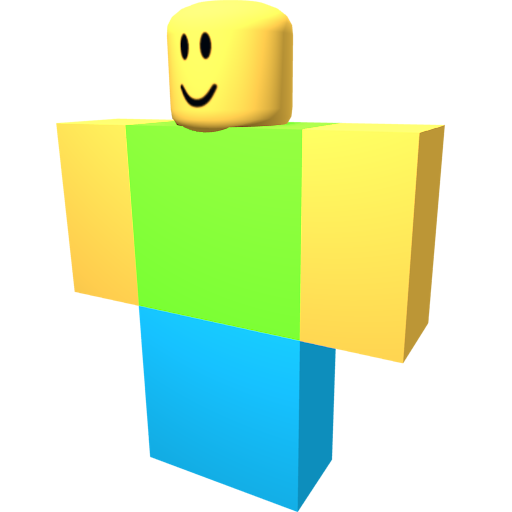
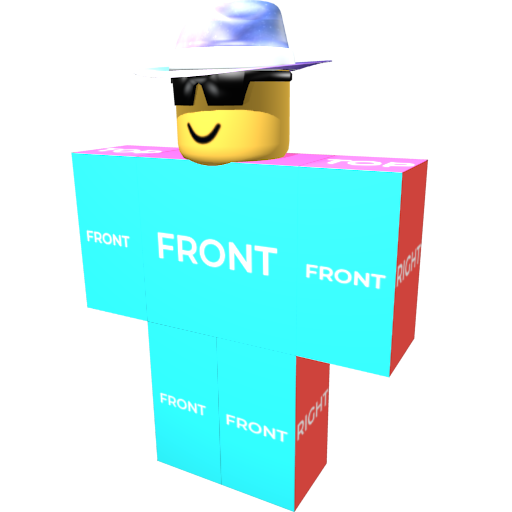
dev synopsis 5
saturday morning updates

- changed theme colors
- changed site page locations: `/support` is now `/site/donate`
- 404 page uses site layout
- style changes to feed
- added working currency payouts

diff --git a/Codebase/cdn/css/style.css b/Codebase/cdn/css/style.css
@@ -1,1 +1,1 @@
-:root{--darkest: #110f11;--darker: #121214;--dark: #18181a;--text: #fff;--text-2: #9b9898;--text-3: #646262;--primary: dodgerblue;--red: #fd131f;--green: #28c330;--purple: #a200ff;--blue-2: #0583ff;--red-secondary: #db020d;--green-secondary: #24ae2b;--purple-2: #9a00f2;--shadow: #131313;--theme-color: dodgerblue;--theme-color-secondary: #0077ea}*{box-sizing:border-box;font-family:Montserrat !important}html,body{height:100%}body{font-family:Quicksand;color:var(--text);background:var(--dark)}body::-webkit-scrollbar{width:12px}body::-webkit-scrollbar-track{background:var(--darker)}body::-webkit-scrollbar-thumb{background-color:var(--dark);border-radius:20px;border:3px solid var(--darkest)}h1,h2,h3,h4,h5,h6{font-weight:600}.top-bar{position:fixed;padding:.5rem;width:100%;background:var(--darkest);box-shadow:1px 1px 5px var(--shadow);z-index:1000;font-size:20px}.top-bar .info{display:inline-block;background:var(--dark);padding:2.5px 12px;margin:0 5px;border-radius:5px}.top-bar .info a{color:#fff;margin:0 10px;font-weight:600}.top-bar .info a i{margin:0 2.5px}.top-bar .info a:hover{color:inherit}.top-bar-push{height:57.38px}.grid-margin-x{margin:0}.side-bar{position:fixed;top:0;left:0;bottom:0;background:var(--darkest);width:215px;z-index:250;box-shadow:1px 1px 5px var(--shadow);overflow-y:auto}.side-bar::-webkit-scrollbar{width:12px}.side-bar::-webkit-scrollbar-track{background:var(--darker)}.side-bar::-webkit-scrollbar-thumb{background-color:var(--dark);border-radius:20px;border:3px solid var(--darkest)}.side-bar .sidebar-text{text-align:center;text-transform:uppercase;font-weight:600;margin-top:10px;padding-bottom:5px;border-bottom:1px solid var(--dark)}.side-bar .sidebar-text-profile{text-align:center;text-transform:uppercase;font-weight:600;margin-top:10px;padding-bottom:5px;border-bottom:1px solid var(--dark);display:flex;align-items:center;justify-content:space-evenly;text-overflow:ellipsis;white-space:nowrap;overflow:hidden}.side-bar .sidebar-text-profile img{width:25px;border:1px solid var(--dark);background:var(--dark)}.side-bar ul{list-style:none;margin:0}.side-bar ul li{font-size:inherit}.side-bar ul li a{font-size:20px;line-height:1.5;font-weight:600;color:var(--text);display:block;padding:10px 15px;border-bottom:1px solid var(--dark)}.side-bar ul li a .label{line-height:1.5;background:var(--theme-color)}.side-bar ul li a .label:hover{cursor:pointer}.side-bar ul li a:hover{background:var(--dark)}.side-bar ul li a i{margin-right:10px}.side-bar .sidebar-inner{margin-top:57.38px}.frame{position:relative;width:auto}.frame .normal_thumbnail{margin-top:auto;margin-bottom:auto;border-radius:50px;border:2px solid var(--dark);background-color:var(--dark)}.admin-links ul{list-style:none;margin:0}.admin-links ul li{font-size:inherit}.admin-links ul li a{font-size:20px;line-height:1.5;font-weight:600;color:var(--text);display:block;padding:10px 15px;border:1px solid var(--dark)}.admin-links ul li a:hover{background:var(--dark)}.admin-links ul li a i{margin-right:10px}.site-footer{width:100%;background:var(--darker);padding:25px 0;bottom:1;border-top:1px solid var(--darkest)}.site-footer .footer-title{color:#fff;letter-spacing:1px;text-transform:uppercase;margin-bottom:4px;font-weight:600}.site-footer .footer-text{margin-top:25px;text-align:center;color:#cecece;font-size:13px}.site-wrap{min-height:100%}.reveal{background-color:var(--darkest);border-color:var(--dark)}.divider{border-top:1px solid var(--dark);background:var(--dark);display:block;margin-top:5px;margin-bottom:5px}@media print,screen and (min-width: 1024px){.grid-margin-x>.sidebar-shrink{width:215px}}.fa,.far,.fas{font-family:"Font Awesome 5 Free" !important}@media screen and (max-width: 1024px){.grid-x{display:block}.side-bar{position:static;width:100%}.top-bar{position:static;width:100%}.top-bar-push{height:0}.grid-margin-x>.shrink{margin:0}}.brand-text{font-weight:700;color:#fff}.brand-text:hover{color:#fff;text-decoration:underline}.card{padding:12px;background:var(--darker);color:#fff;border-color:var(--darkest);margin:5px;border-radius:5px}.card.no-padding{padding:0px}.card label{color:inherit}a{color:var(--theme-color)}a:hover{color:var(--theme-color-secondary)}.site-notification{background:var(--theme-color);border-radius:5px;padding:8px 0;text-align:center;font-size:18px;font-weight:600;line-height:1.5;margin:25px auto}.right{float:right}button{margin:0 !important;color:#fff !important}button.success{background-color:var(--green) !important}button.success:hover{background:var(--green-secondary) !important}.label{border-radius:2px}.label.offline{border:2px solid #0c0c0c;background:transparent;text-transform:uppercase;color:gray;border-radius:10px}.label.online{border:2px solid var(--green);background:transparent;text-transform:uppercase;color:var(--green);border-radius:10px;font-weight:700}.logout-button{padding:6px;border-radius:10px;border:3px solid var(--theme-color)}.sign-up-button{padding:6px;border-radius:10px;border:3px solid red}.sign-in-button{padding:6px;border-radius:10px;border:3px solid #008b8b}.red{color:var(--red)}.red.red-hover:hover{color:var(--red-secondary)}.callout{background:var(--darker);color:#fff;border-radius:5px;border:1px solid var(--darkest)}.button{background:var(--theme-color);border-radius:5px;font-weight:600;padding:12px 14px;vertical-align:middle}.button.u{font-weight:500;text-transform:uppercase;margin:0 5px !important}.button.u i{margin-right:5px}.button:active,.button:hover,.button:focus{background:var(--theme-color-secondary)}em{display:block}input,textarea,select{background:var(--dark) !important;color:#fff !important;box-shadow:none !important;border-color:var(--darker) !important}input:focus,textarea:focus,select:focus{border-color:#1e90ff !important}.preview{background:var(--darkest);padding:12px;margin:5px;border:1px solid var(--dark);border-radius:5px}.preview p{margin:0}.text-secondary{color:var(--text-2)}table{border-radius:5px}table h1,table h2,table h3,table h4,table h5,table h6,table p{margin:0}table h4 a{color:#fff}table h4 a:hover{color:inherit}table p,table label{color:var(--text-2)}table thead{background:var(--darker);color:#fff;border:1px solid var(--darkest)}table tbody{border:1px solid var(--darkest)}table tbody tr{width:100%;transition:100ms ease all}table tbody tr:hover{background-color:var(--dark) !important}table tbody tr:nth-child(odd){background-color:var(--darkest)}table tbody tr:nth-child(even){background-color:var(--darker)}.content{animation:fade 1s}@keyframes fade{0%{opacity:0}100%{opacity:1}}.avatar_thumbnail{width:35px;border-radius:50px;border:1px solid var(--darkest);float:left !important;display:block;margin-right:10px}.ellipsis{display:block;align-items:center}.ellipsis .label{margin-left:auto}.ellipsis .random-users-flex-thing{display:flex;align-items:center}.text-center-vh{height:100%;display:grid;place-items:center;font-size:32px}img{background:var(--dark) !important;border-radius:12px}.icon-container{width:50px;height:50px;position:relative}.icon-container img{height:100%;width:100%;border-radius:50%;margin-right:15px}.icon-container .status-circle{width:15px;height:15px;border-radius:50%;background-color:gray;border:2px solid var(--darkest);bottom:0;right:0;position:absolute}.icon-container .status-circle.online{background-color:lime}.card-img{margin-top:30px;padding-top:30px;position:relative;display:flex;overflow:visible}.card-image-top{border:2px solid var(--darkest);background-color:var(--darker) !important;position:absolute;top:-30px;left:50%;margin-left:-30px;width:60px !important;height:60px}.full-width{width:100%}.vertical-menu{list-style-type:none;margin:0;margin-top:12px}.shop-button{border-radius:5px;width:100%;margin:0;padding:0}.shop-button button{padding:12px !important;background:var(--dark) !important;border-bottom:2px solid var(--dark);border-radius:5px;margin-bottom:5px !important;text-align:left;font-weight:600}.shop-button button i{margin-right:5px}.shop-button button.active{border-bottom:2px solid var(--theme-color)}.shop-button button:hover{border-bottom:2px solid var(--theme-color)}.market-card{background:var(--dark);margin:2px;padding:12px}
+:root{--darkest: #1d1a1d;--darker: #1d1d20;--dark: #212124;--text: #fff;--text-2: #9b9898;--text-3: #646262;--primary: #1c87f1;--red: #fd131f;--green: #28c330;--purple: #a200ff;--blue-2: #0e7ae5;--red-secondary: #db020d;--green-secondary: #24ae2b;--purple-2: #9a00f2;--shadow: #131313;--theme-color: #1c87f1;--theme-color-secondary: #0d6dcd}*{box-sizing:border-box;font-family:Montserrat !important}html,body{height:100%}body{font-family:Quicksand;color:var(--text);background:var(--dark)}body::-webkit-scrollbar{width:12px}body::-webkit-scrollbar-track{background:var(--darker)}body::-webkit-scrollbar-thumb{background-color:var(--dark);border-radius:20px;border:3px solid var(--darkest)}h1,h2,h3,h4,h5,h6{font-weight:600}.top-bar{position:fixed;padding:.5rem;width:100%;background:var(--darkest);box-shadow:1px 1px 5px var(--shadow);z-index:1000;font-size:20px}.top-bar .info{display:inline-block;background:var(--dark);padding:2.5px 12px;margin:0 5px;border-radius:5px}.top-bar .info a{color:#fff;margin:0 10px;font-weight:600}.top-bar .info a i{margin:0 2.5px}.top-bar .info a:hover{color:inherit}.top-bar-push{height:57.38px}.grid-margin-x{margin:0}.side-bar{position:fixed;top:0;left:0;bottom:0;background:var(--darkest);width:215px;z-index:250;box-shadow:1px 1px 5px var(--shadow);overflow-y:auto}.side-bar::-webkit-scrollbar{width:12px}.side-bar::-webkit-scrollbar-track{background:var(--darker)}.side-bar::-webkit-scrollbar-thumb{background-color:var(--dark);border-radius:20px;border:3px solid var(--darkest)}.side-bar .sidebar-text{text-align:center;text-transform:uppercase;font-weight:600;margin-top:10px;padding-bottom:5px;border-bottom:1px solid var(--dark)}.side-bar .sidebar-text-profile{text-align:center;text-transform:uppercase;font-weight:600;margin-top:10px;padding-bottom:5px;border-bottom:1px solid var(--dark);display:flex;align-items:center;justify-content:space-evenly;text-overflow:ellipsis;white-space:nowrap;overflow:hidden}.side-bar .sidebar-text-profile img{width:25px;border:1px solid var(--dark);background:var(--dark)}.side-bar ul{list-style:none;margin:0}.side-bar ul li{font-size:inherit}.side-bar ul li a{font-size:20px;line-height:1.5;font-weight:600;color:var(--text);display:block;padding:10px 15px;border-bottom:1px solid var(--dark)}.side-bar ul li a .label{line-height:1.5;background:var(--theme-color)}.side-bar ul li a .label:hover{cursor:pointer}.side-bar ul li a:hover{background:var(--dark)}.side-bar ul li a i{margin-right:10px}.side-bar .sidebar-inner{margin-top:57.38px}.frame{position:relative;width:auto}.frame .normal_thumbnail{margin-top:auto;margin-bottom:auto;border-radius:50px;border:2px solid var(--dark);background-color:var(--dark)}.admin-links ul{list-style:none;margin:0}.admin-links ul li{font-size:inherit}.admin-links ul li a{font-size:20px;line-height:1.5;font-weight:600;color:var(--text);display:block;padding:10px 15px;border:1px solid var(--dark)}.admin-links ul li a:hover{background:var(--dark)}.admin-links ul li a i{margin-right:10px}.site-footer{width:100%;background:var(--darker);padding:25px 0;bottom:1;border-top:1px solid var(--darkest)}.site-footer .footer-title{color:#fff;letter-spacing:1px;text-transform:uppercase;margin-bottom:4px;font-weight:600}.site-footer .footer-text{margin-top:25px;text-align:center;color:#cecece;font-size:13px}.site-wrap{min-height:100%}.reveal{background-color:var(--darkest);border-color:var(--dark)}.divider{border-top:1px solid var(--dark);background:var(--dark);display:block;margin-top:5px;margin-bottom:5px}@media print,screen and (min-width: 1024px){.grid-margin-x>.sidebar-shrink{width:215px}}.fa,.far,.fas{font-family:"Font Awesome 5 Free" !important}@media screen and (max-width: 1024px){.grid-x{display:block}.side-bar{position:static;width:100%}.top-bar{position:static;width:100%}.top-bar-push{height:0}.grid-margin-x>.shrink{margin:0}}.brand-text{font-weight:700;color:#fff}.brand-text:hover{color:#fff;text-decoration:underline}.card{padding:12px;background:var(--darker);color:#fff;border-color:var(--darkest);margin:5px;border-radius:5px}.card.no-padding{padding:0px}.card label{color:inherit}a{color:var(--theme-color)}a:hover{color:var(--theme-color-secondary)}.site-notification{background:var(--theme-color);border-radius:5px;padding:8px 0;text-align:center;font-size:18px;font-weight:600;line-height:1.5;margin:25px auto}.right{float:right}button{margin:0 !important;color:#fff !important}button.success{background-color:var(--green) !important}button.success:hover{background:var(--green-secondary) !important}.label{border-radius:2px}.label.offline{border:2px solid #0c0c0c;background:transparent;text-transform:uppercase;color:gray;border-radius:10px}.label.online{border:2px solid var(--green);background:transparent;text-transform:uppercase;color:var(--green);border-radius:10px;font-weight:700}.logout-button{padding:6px;border-radius:10px;border:3px solid var(--theme-color)}.sign-up-button{padding:6px;border-radius:10px;border:3px solid red}.sign-in-button{padding:6px;border-radius:10px;border:3px solid #008b8b}.red{color:var(--red)}.red.red-hover:hover{color:var(--red-secondary)}.callout{background:var(--darker);color:#fff;border-radius:5px;border:1px solid var(--darkest)}.button{background:var(--theme-color);border-radius:5px;font-weight:600;padding:12px 14px;vertical-align:middle}.button.u{font-weight:500;text-transform:uppercase;margin:0 5px !important}.button.u i{margin-right:5px}.button:active,.button:hover,.button:focus{background:var(--theme-color-secondary)}em{display:block}input,textarea,select{background:var(--dark) !important;color:#fff !important;box-shadow:none !important;border-color:var(--darker) !important}input:focus,textarea:focus,select:focus{border-color:#1e90ff !important}.preview{background:var(--darkest);padding:12px;margin:5px;border:1px solid var(--dark);border-radius:5px}.preview p{margin:0}.text-secondary{color:var(--text-2)}table{border-radius:5px}table h1,table h2,table h3,table h4,table h5,table h6,table p{margin:0}table h4 a{color:#fff}table h4 a:hover{color:inherit}table p,table label{color:var(--text-2)}table thead{background:var(--darker);color:#fff;border:1px solid var(--darkest)}table tbody{border:1px solid var(--darkest)}table tbody tr{width:100%;transition:100ms ease all}table tbody tr:hover{background-color:var(--dark) !important}table tbody tr:nth-child(odd){background-color:var(--darkest)}table tbody tr:nth-child(even){background-color:var(--darker)}.content{animation:fade 1s}@keyframes fade{0%{opacity:0}100%{opacity:1}}.avatar_thumbnail{width:35px;border-radius:50px;border:1px solid var(--darkest);float:left !important;display:block;margin-right:10px}.ellipsis{display:block;align-items:center}.ellipsis .label{margin-left:auto}.ellipsis .random-users-flex-thing{display:flex;align-items:center}.text-center-vh{height:100%;display:grid;place-items:center;font-size:32px}img{background:var(--dark) !important;border-radius:12px}.icon-container{width:50px;height:50px;position:relative}.icon-container img{height:100%;width:100%;border-radius:50%;margin-right:15px}.icon-container .status-circle{width:15px;height:15px;border-radius:50%;background-color:gray;border:2px solid var(--darkest);bottom:0;right:0;position:absolute}.icon-container .status-circle.online{background-color:lime}.card-img{margin-top:30px;padding-top:30px;position:relative;display:flex;overflow:visible}.card-image-top{border:2px solid var(--darkest);background-color:var(--darker) !important;position:absolute;top:-30px;left:50%;margin-left:-30px;width:60px !important;height:60px}.full-width{width:100%}.vertical-menu{list-style-type:none;margin:0;margin-top:12px}.shop-button{border-radius:5px;width:100%;margin:0;padding:0}.shop-button button{padding:12px !important;background:var(--dark) !important;border-bottom:2px solid var(--dark);border-radius:5px;margin-bottom:5px !important;text-align:left;font-weight:600}.shop-button button i{margin-right:5px}.shop-button button.active{border-bottom:2px solid var(--theme-color)}.shop-button button:hover{border-bottom:2px solid var(--theme-color)}.market-card{background:var(--dark);margin:2px;padding:12px}

diff --git a/Codebase/cdn/scss/var.scss b/Codebase/cdn/scss/var.scss
@@ -4,15 +4,15 @@ $darker: rgb(18, 18, 20);
 $dark: rgb(24, 24, 26);
 */
 
-$darkest: rgb(17, 15, 17);
-$darker: rgb(18, 18, 20);
-$dark: rgb(24, 24, 26);
+$darkest: #1d1a1d;
+$darker: #1d1d20;
+$dark: #212124;
 
 $text: #fff;
 $text-2: rgb(155, 152, 152);
 $text-3: rgb(100, 98, 98);
 
-$blue: dodgerblue;
+$blue: rgb(28, 135, 241);
 $red: #fd131f;
 $green: rgb(40, 195, 48);
 $purple: #a200ff;

diff --git a/Codebase/views/layout.php b/Codebase/views/layout.php
@@ -15,6 +15,7 @@ if (Auth::Auth()) {
   // if banned redirect
   BanController::Redirect($conn);
   $u = UsersController::GetByID($conn, $_SESSION['UserID']);
+  UserController::Payout($conn);
 }
 
 
@@ -242,34 +243,34 @@ if (Auth::Auth()) {
               <div class="footer-title">NAVIGATE</div>
               <ul class="footer-links">
                 <li><a href="/">Home</a></li>
-                <li><a href="/market">Store</a></li>
+                <li><a href="/shop">Shop</a></li>
                 <li><a href="/forum">Forum</a></li>
-                <li><a href="/upgrade">Upgrade</a></li>
+                <li><a href="/account/customize">Customize</a></li>
               </ul>
             </div>
             <div class="large-2 large-offset-1 medium-3 medium-offset-0 small-4 small-offset-1 cell">
               <div class="footer-title">ABOUT</div>
               <ul class="footer-links">
-                <li><a href="/terms-of-service">Terms of Service</a></li>
+                <li><a href="/site/terms-of-service">Terms of Service</a></li>
                 <li><a href="/privacy-policy">Privacy Policy</a></li>
-                <li><a href="/about">About Us</a></li>
+                <li><a href="/about-us">About Us</a></li>
                 <li><a href="/blog">Blog</a></li>
               </ul>
             </div>
             <div class="large-2 large-offset-1 medium-3 medium-offset-0 small-4 small-offset-1 cell">
               <div class="footer-title">SUPPORT</div>
               <ul class="footer-links">
-                <li><a href="/support">Support</a></li>
-                <li><a href="/market">Help Center</a></li>
-                <li><a href="/forum">Work With Us</a></li>
-                <li><a href="/upgrade">Upgrade</a></li>
+                <li><a href="/site/donate">Donate</a></li>
+                <li><a href="/site/support">Help Center</a></li>
+                <li><a href="/site/hiring-center">Work With Us</a></li>
+                <li><a href="/site/contact">Contact Us</a></li>
               </ul>
             </div>
             <div class="large-2 large-offset-1 medium-3 medium-offset-0 small-4 small-offset-1 cell">
               <div class="footer-title">COMMUNITY</div>
               <ul class="footer-links">
                 <li><a href="/upgrade">Forum</a></li>
-                <li><a href="/">Discord</a></li>
+                <li><a href="https://discord.gg/YNXCx6Ph94">Discord</a></li>
                 <li><a href="/market">Twitter</a></li>
                 <li><a href="/forum">Youtube</a></li>
               </ul>

diff --git a/Codebase/renderer/python/1.py b/Codebase/renderer/python/1.py
@@ -23,17 +23,17 @@ def hex_to_rgb(value):
 
 
 bpy.data.objects["Torso"].select = True
-bpy.data.objects["Torso"].active_material.diffuse_color = hex_to_rgb("000000")
+bpy.data.objects["Torso"].active_material.diffuse_color = hex_to_rgb("65E72B")
 bpy.data.objects["Head"].select = True
-bpy.data.objects["Head"].active_material.diffuse_color = hex_to_rgb("ECC494")
+bpy.data.objects["Head"].active_material.diffuse_color = hex_to_rgb("E7B541")
 bpy.data.objects["LeftArm"].select = True
-bpy.data.objects["LeftArm"].active_material.diffuse_color = hex_to_rgb("ECC494")
+bpy.data.objects["LeftArm"].active_material.diffuse_color = hex_to_rgb("E7B541")
 bpy.data.objects["RightArm"].select = True
-bpy.data.objects["RightArm"].active_material.diffuse_color = hex_to_rgb("ECC494")
+bpy.data.objects["RightArm"].active_material.diffuse_color = hex_to_rgb("E7B541")
 bpy.data.objects["LeftLeg"].select = True
-bpy.data.objects["LeftLeg"].active_material.diffuse_color = hex_to_rgb("ECC494")
+bpy.data.objects["LeftLeg"].active_material.diffuse_color = hex_to_rgb("16ABE7")
 bpy.data.objects["RightLeg"].select = True
-bpy.data.objects["RightLeg"].active_material.diffuse_color = hex_to_rgb("ECC494")
+bpy.data.objects["RightLeg"].active_material.diffuse_color = hex_to_rgb("16ABE7")
 
 
 hatpath = "C:/xampp/htdocs/robloxclone/Codebase/renderer/res/models/hats/263.obj"
@@ -113,7 +113,7 @@ bpy.data.scenes["Scene"].render.alpha_mode = "TRANSPARENT"
 bpy.data.scenes["Scene"].render.alpha_mode = origAlphaMode
 
 
-bpy.data.scenes["Scene"].render.filepath = "C:/xampp/htdocs/robloxclone/Codebase/cdn/img/avatar/c4ca4238a0b923820dcc509a6f75849b.png"
+bpy.data.scenes["Scene"].render.filepath = "C:/xampp/htdocs/robloxclone/Codebase/cdn/img/avatar/eccbc87e4b5ce2fe28308fd9f2a7baf3.png"
 bpy.ops.object.select_all(action="SELECT")
 bpy.ops.view3d.camera_to_view_selected()
 bpy.ops.render.render( write_still=True )

diff --git a/Codebase/renderer/python/1_thumb.py b/Codebase/renderer/python/1_thumb.py
@@ -23,17 +23,17 @@ def hex_to_rgb(value):
 
 
 bpy.data.objects["Torso"].select = True
-bpy.data.objects["Torso"].active_material.diffuse_color = hex_to_rgb("000000")
+bpy.data.objects["Torso"].active_material.diffuse_color = hex_to_rgb("65E72B")
 bpy.data.objects["Head"].select = True
-bpy.data.objects["Head"].active_material.diffuse_color = hex_to_rgb("ECC494")
+bpy.data.objects["Head"].active_material.diffuse_color = hex_to_rgb("E7B541")
 bpy.data.objects["LeftArm"].select = True
-bpy.data.objects["LeftArm"].active_material.diffuse_color = hex_to_rgb("ECC494")
+bpy.data.objects["LeftArm"].active_material.diffuse_color = hex_to_rgb("E7B541")
 bpy.data.objects["RightArm"].select = True
-bpy.data.objects["RightArm"].active_material.diffuse_color = hex_to_rgb("ECC494")
+bpy.data.objects["RightArm"].active_material.diffuse_color = hex_to_rgb("E7B541")
 bpy.data.objects["LeftLeg"].select = True
-bpy.data.objects["LeftLeg"].active_material.diffuse_color = hex_to_rgb("ECC494")
+bpy.data.objects["LeftLeg"].active_material.diffuse_color = hex_to_rgb("16ABE7")
 bpy.data.objects["RightLeg"].select = True
-bpy.data.objects["RightLeg"].active_material.diffuse_color = hex_to_rgb("ECC494")
+bpy.data.objects["RightLeg"].active_material.diffuse_color = hex_to_rgb("16ABE7")
 
 
 hatpath = "C:/xampp/htdocs/robloxclone/Codebase/renderer/res/models/hats/263.obj"
@@ -121,6 +121,6 @@ obj.location.x = 2.19646
 obj.location.y = -4.36904
 obj.location.z = 8.64529
 
-bpy.data.scenes["Scene"].render.filepath = "C:/xampp/htdocs/robloxclone/Codebase/cdn/img/avatar/thumbnail/c4ca4238a0b923820dcc509a6f75849b.png"
+bpy.data.scenes["Scene"].render.filepath = "C:/xampp/htdocs/robloxclone/Codebase/cdn/img/avatar/thumbnail/eccbc87e4b5ce2fe28308fd9f2a7baf3.png"
 bpy.ops.render.render( write_still=True )
 

diff --git a/Codebase/views/errors/404.php b/Codebase/views/errors/404.php
@@ -1,41 +1,12 @@
-<!DOCTYPE html>
-<html lang="en">
-<head>
-  <meta charset="UTF-8">
-  <meta http-equiv="X-UA-Compatible" content="IE=edge">
-  <meta name="viewport" content="width=device-width, initial-scale=1.0">
-  <title>404 Not Found</title>
-  <style>
-    body {
-      background: rgb(12,12,12);
-      font-family:Montserrat, Arial, Helvetica, sans-serif;
-      color: #fff;
-    }
-    .not-found {
-      padding: 25px;
-      background-color: black;
-      display: block;
-    }
-    * {
-      box-sizing: border-box;
-    }
-    .container {
-      max-width: 400px;
-      margin: auto;
-    }
-    h1, p {
-      margin: 0;
-    }
-  </style>
-</head>
-<body>
-    <div class="container">
-      <div class="not-found">
-        <h1>
-          404 - Not Found 
-        </h1>
-        <p>We couldn't find that page on our server.</p>
-      </div>
-    </div>
-</body>
-</html>
+<?php 
+$name = "404";
+?>
+
+<div class="container">
+  <div class="not-found">
+    <h1>
+      404 - Not Found
+    </h1>
+    <p>We couldn't find that page on our server.</p>
+  </div>
+</div>

diff --git a/Codebase/api/load-comments.php b/Codebase/api/load-comments.php
@@ -6,10 +6,18 @@ use brickspace\controller\auth\WallController;
 use brickspace\controller\UsersController;
 
 $wall = WallController::GetPosts($conn);
+
+if(!$wall) {
+  ?>
+  <div class="card">
+    <strong>No posts! Make one below!</strong>
+  </div>
+  <?php 
+}
+
 foreach ($wall as $post) {
   $user = UsersController::GetByID($conn, $post['wall_creator']);
 ?>
-  <div class="card">
     <div class="grid-x grid-margin-x">
       <div class="cell small-12 large-2">
         <div class="frame">
@@ -30,7 +38,7 @@ foreach ($wall as $post) {
             echo Time::Elapsed($post['wall_created']);
             ?>
           </p>
-          <p style="margin: 0;">
+          <p>
             <?php
             echo $post['wall_message'];
             ?>
@@ -38,7 +46,6 @@ foreach ($wall as $post) {
         </div>
       </div>
     </div>
-  </div>
 <?php
 }
 ?>

diff --git a/Codebase/app/controller/auth/UserController.php b/Codebase/app/controller/auth/UserController.php
@@ -15,6 +15,23 @@ class UserController {
     }
   }
 
+  public static function Payout($conn) {
+    if (Auth::Auth()) {
+      $payout = $conn->prepare("SELECT last_payout FROM users WHERE user_id=?");
+      $payout->execute([$_SESSION['UserID']]);
+      $payout = $payout->fetch();
+
+      if(time() - strtotime($payout['last_payout']) > 60*60*24) {
+        $c = $conn->prepare("UPDATE users SET cubes = cubes + 15 WHERE user_id=?");
+        $c->execute([$_SESSION['UserID']]);
+        $c = $c->fetch();
+
+        $c = $conn->prepare("UPDATE users SET last_payout = NOW() WHERE user_id=?");
+        $c->execute([$_SESSION['UserID']]);
+      }
+    }
+  }
+
   public static function Avatar($conn) {
     if (Auth::Auth()) {
       $a = $conn->prepare("SELECT * FROM avatar WHERE user_id=?");

diff --git a/Codebase/routes.php b/Codebase/routes.php
@@ -67,7 +67,7 @@ page('/user/profile', 'views/pages/profile.php');
 
 page('/shop', 'views/pages/shop/index.php');
 
-get('/support', 'views/pages/support.php');
+get('/site/donate', 'views/pages/support.php');
 
 page('/blog', 'views/pages/blog/dashboard.php');
 page('/blog/post/$id', 'views/pages/blog/post.php');
@@ -99,6 +99,6 @@ page('/banned', 'views/pages/user/banned.php');
 
 
 // 404
-any('/not-found', 'views/errors/404.php');
+page('/not-found', 'views/errors/404.php');
 
 

diff --git a/Codebase/views/pages/user/dashboard.php b/Codebase/views/pages/user/dashboard.php
@@ -94,7 +94,9 @@ $blog = BlogController::GetPosts($conn);
           <i class="fa fa-stream"></i>
           Feed
         </h2>
-        <div id="comments"></div>
+        <div class="card">
+          <div id="comments"></div>
+        </div>
         <div class="card">
           <form action="/dashboard/wall/" method="POST" id="wall">
             <?php

diff --git a/Codebase/views/pages/user/banned.php b/Codebase/views/pages/user/banned.php
@@ -4,6 +4,11 @@ use brickspace\controller\auth\BanController;
 
 $name = "Banned";
 $ban = BanController::Get($conn);
+
+if(!$ban) {
+  header('location: /dashboard');
+  die;
+}
 ?>
 
 <div class="grid-x grid-margin-x">

diff --git a/Codebase/views/pages/shop/index.php b/Codebase/views/pages/shop/index.php
@@ -7,7 +7,7 @@ $name = "Shop";
 ?>
 
 <div class="card">
-  <h4>Market</h4>
+  <h4>Shop</h4>
   <div class="grid-x grid-margin-x">
     <div class="cell large-2 small-12">
       <?php
